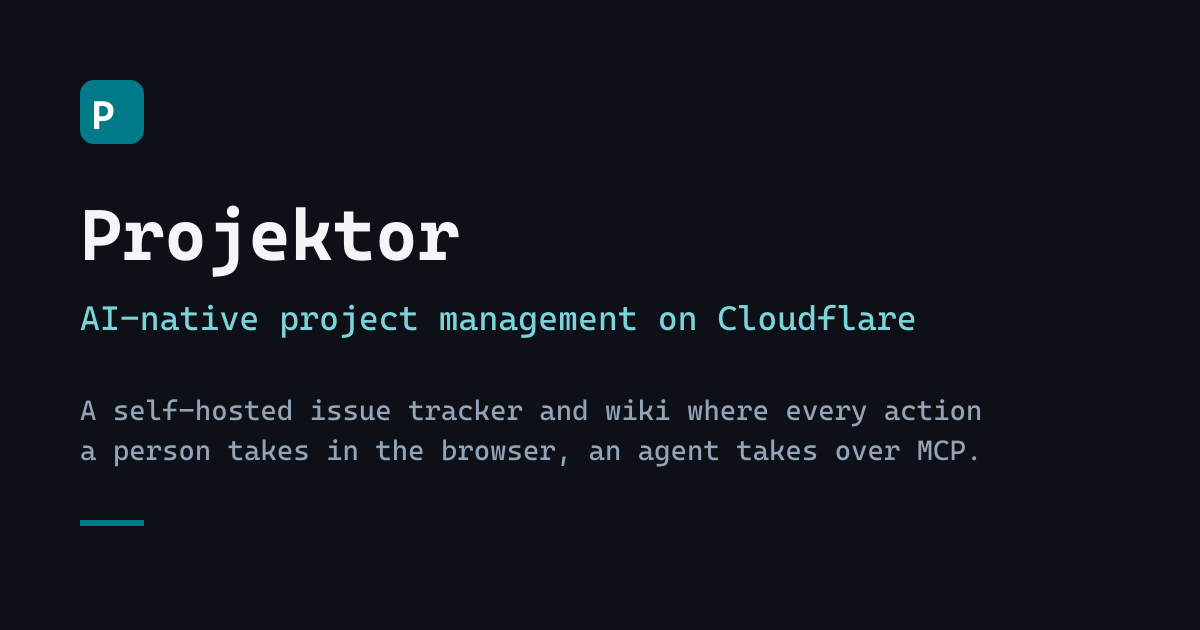
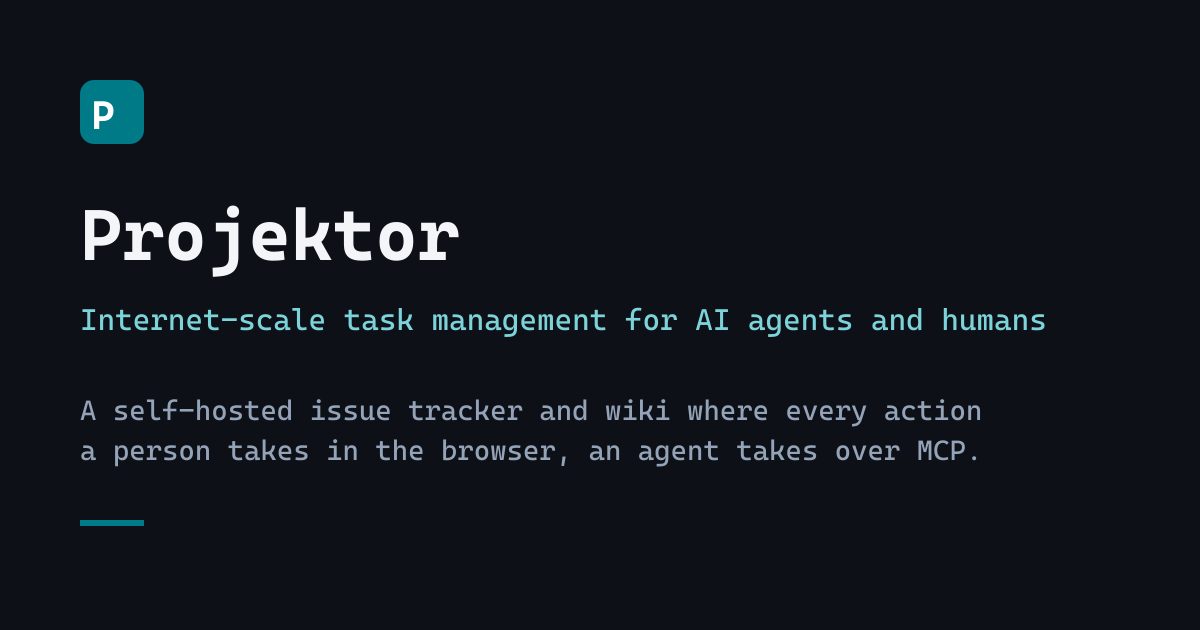
docs: purpose is internet-scale task management for AI agents and humans (PROJ-937) (#491)
* docs: state the purpose as internet-scale task management for AI agents and humans (PROJ-937)

Roll the agreed purpose statement out across the docs site description,
homepage, FAQ, compare overview, architecture page, llms.txt, OG card,
MCP server instructions, README and AGENTS.md. Add a "Purpose and scope"
section to the design principles page (five jobs, three checks, explicit
out-of-scope list) so proposals can be ruled in or out against it, and
point CONTRIBUTING at it.

* style: biome format mcp.ts server instructions

---------

Changed region(s): [[0.0617, 0.4825, 0.8633, 0.5429]]

diff --git a/apps/api/src/routes/mcp.ts b/apps/api/src/routes/mcp.ts
@@ -71,7 +71,8 @@ function buildServerInstructions(workflowVersion: string | null): string {
 		? `Its current version is "${workflowVersion}" — pass that as get_workflow's \`ifVersion\` to skip re-reading an unchanged spec. `
 		: "";
 	return (
-		"Projektor is an MCP-native issue tracker + wiki. Every project-management action a browser user can do " +
+		"Projektor is internet-scale task management for AI agents and humans: an MCP-native issue tracker + wiki. " +
+		"Every project-management action a browser user can do " +
 		'is available here as a tool. Handy entry points: get_issue accepts a ref like "PROJ-42"; ' +
 		'get_prioritized_issues answers "what should I work on next?"; search_issues / search_wiki ground you in ' +
 		"existing context. Call get_workflow before claiming work — it returns the definition of ready, the state " +

diff --git a/apps/docs/src/content/docs/philosophy/design-principles.md b/apps/docs/src/content/docs/philosophy/design-principles.md
@@ -1,6 +1,6 @@
 ---
 title: "Design principles"
-description: "The research behind Projektor's workflow design: flow literature, agent engineering, and the six principles where they converge."
+description: "What Projektor is for and what's out of scope, then the research behind its workflow design and the six principles where it converges."
 sidebar:
   order: 2
 ---
@@ -8,6 +8,28 @@ Projektor's design draws on two literatures: a decades-old one on how *humans* m
 work through a tracker, and a few-years-old one on how *agents* fail. Strikingly, they
 often reach the same conclusion from opposite directions, and those conclusions are the
 principles below.
+
+## Purpose and scope
+
+Projektor is internet-scale task management for AI agents and humans. "Internet-scale"
+means it inherits Cloudflare's scale, holds up when a fleet of agents works at once, and
+is reachable from anywhere an agent runs.
+
+A feature belongs in Projektor if it does one of five jobs:
+
+1. **Capture and plan work:** issues, epics, sprints, specs.
+2. **Decide what's next:** priority, readiness, dependencies.
+3. **Coordinate who's doing it:** leases, file claims, WIP limits, messages between agents.
+4. **Record what was done and learned:** completion reports, comments, the wiki.
+5. **See how work flows:** flow metrics, activity, contention.
+
+It also has to pass three checks. It works on both surfaces: an agent over MCP and a
+person in the web app. It still holds when a fleet of agents works at once. And it
+coordinates work rather than doing it.
+
+Out of scope: customer relationships, deals and sales pipelines; invoicing, HR and other
+back-office work; running agents or executing code; hosting or reviewing code;
+general-purpose chat; and features that only work on one machine.
 
 ## What this deliberately isn't
 

diff --git a/README.md b/README.md
@@ -4,7 +4,7 @@
 [![Latest release](https://img.shields.io/github/v/release/TAJD/projektor)](https://github.com/TAJD/projektor/releases)
 [![License: MIT](https://img.shields.io/github/license/TAJD/projektor)](./LICENSE)
 
-> **AI-native project management, self-hosted on Cloudflare.**
+> **Internet-scale task management for AI agents and humans.**
 
 **[Docs](https://tajd.github.io/projektor/)** ·
 **[Live demo](https://projektor-demo.tajdickson.workers.dev)** ·
@@ -14,10 +14,12 @@
 
 ## What it is
 
-An issue tracker and wiki that your AI coding agent can run as well as you do. Everything
-is exposed over MCP (<!-- gen-mcp-stats:start -->126 tools across 24 domains<!-- gen-mcp-stats:end -->),
-so the agent files, moves and documents the work itself. It runs as one Cloudflare Worker
-(Hono, D1, KV, R2) in your own account: no servers, no containers.
+The place where a fleet of AI agents and the people steering them plan, claim, coordinate
+and record work. It is an issue tracker and wiki with everything exposed over MCP
+(<!-- gen-mcp-stats:start -->126 tools across 24 domains<!-- gen-mcp-stats:end -->), so
+the agent files, moves and documents the work itself. It runs as one Cloudflare Worker
+(Hono, D1, KV, R2) in your own account: no servers, no containers, and reachable from any
+machine an agent runs on.
 
 ## Why it's different
 

diff --git a/AGENTS.md b/AGENTS.md
@@ -20,7 +20,17 @@ below; read the one that matches your task.
 
 ## What projektor is
 
-A project management tool deployed on Cloudflare, combining AI-native design with tried-and-tested principles.
+Internet-scale task management for AI agents and humans: an issue tracker and wiki on
+Cloudflare that agents reach over MCP and people use in a web app. "Internet-scale" means
+it inherits Cloudflare's scale, holds up when a fleet of agents works at once, and is
+reachable from anywhere an agent runs.
+
+Scope: a change belongs here if it helps capture and plan work, decide what's next,
+coordinate who's doing it, record what was done and learned, or see how work flows. It
+must also work on both surfaces (MCP and the web app), hold up at fleet scale, and
+coordinate work rather than execute it. CRM and sales pipelines, invoicing and HR,
+running agents or code, code hosting and review, and general chat are out of scope. The
+full test is in [Design principles](https://tajd.github.io/projektor/philosophy/design-principles/#purpose-and-scope).
 
 Design principles
 

diff --git a/apps/docs/src/content/docs/contributing/conventions.md b/apps/docs/src/content/docs/contributing/conventions.md
@@ -28,7 +28,17 @@ below; read the one that matches your task.
 
 ## What projektor is
 
-A project management tool deployed on Cloudflare, combining AI-native design with tried-and-tested principles.
+Internet-scale task management for AI agents and humans: an issue tracker and wiki on
+Cloudflare that agents reach over MCP and people use in a web app. "Internet-scale" means
+it inherits Cloudflare's scale, holds up when a fleet of agents works at once, and is
+reachable from anywhere an agent runs.
+
+Scope: a change belongs here if it helps capture and plan work, decide what's next,
+coordinate who's doing it, record what was done and learned, or see how work flows. It
+must also work on both surfaces (MCP and the web app), hold up at fleet scale, and
+coordinate work rather than execute it. CRM and sales pipelines, invoicing and HR,
+running agents or code, code hosting and review, and general chat are out of scope. The
+full test is in [Design principles](https://tajd.github.io/projektor/philosophy/design-principles/#purpose-and-scope).
 
 Design principles
 

diff --git a/apps/docs/src/content/docs/faq.md b/apps/docs/src/content/docs/faq.md
@@ -7,8 +7,9 @@ answer stands on its own and links to the page with the detail.
 
 ## What is Projektor?
 
-Projektor is an open-source, self-hosted, MCP-native issue tracker and wiki
-that runs in a single Cloudflare Worker. AI agents use it through an MCP
+Projektor is open-source, internet-scale task management for AI agents and
+humans: an MCP-native issue tracker and wiki that runs in a single Cloudflare
+Worker, so a fleet of agents can reach it from anywhere. AI agents use it through an MCP
 server that exposes everything a browser user can do, and humans use the same
 data through a web UI with list and board views, sprints and a wiki. It is MIT
 licensed and you deploy it to your own Cloudflare account.

diff --git a/apps/docs/src/content/docs/compare/index.md b/apps/docs/src/content/docs/compare/index.md
@@ -5,8 +5,9 @@ sidebar:
   label: "Overview"
   order: 0
 ---
-Projektor is an open-source, self-hosted, MCP-native issue tracker and wiki
-that runs in a single Cloudflare Worker. These pages compare it with the tools
+Projektor is open-source, internet-scale task management for AI agents and
+humans: a self-hosted, MCP-native issue tracker and wiki that runs in a single
+Cloudflare Worker. These pages compare it with the tools
 people most often weigh it against when they give AI coding agents a task
 tracker. Each page starts with a short verdict, including where the other tool
 is the better choice, then uses the same comparison table so the pages can be

diff --git a/CONTRIBUTING.md b/CONTRIBUTING.md
@@ -51,6 +51,8 @@ changed files.
   and I can point you at anything useful.
 - For a larger change or a new feature, please open an issue (or comment on an
   existing one) first, so we can agree the shape before you put time into it.
+  [Purpose and scope](https://tajd.github.io/projektor/philosophy/design-principles/#purpose-and-scope)
+  says what's in and out.
 
 ## How the code is organised
 
